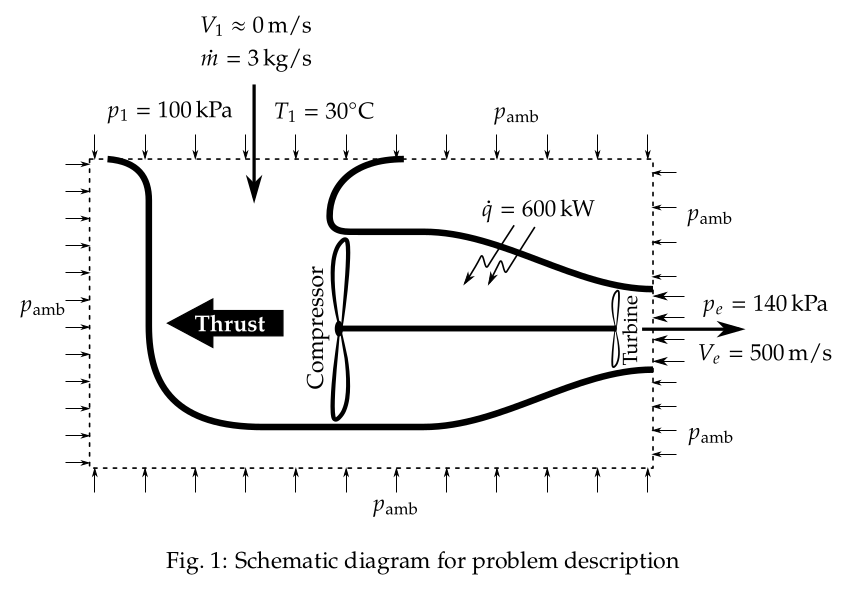
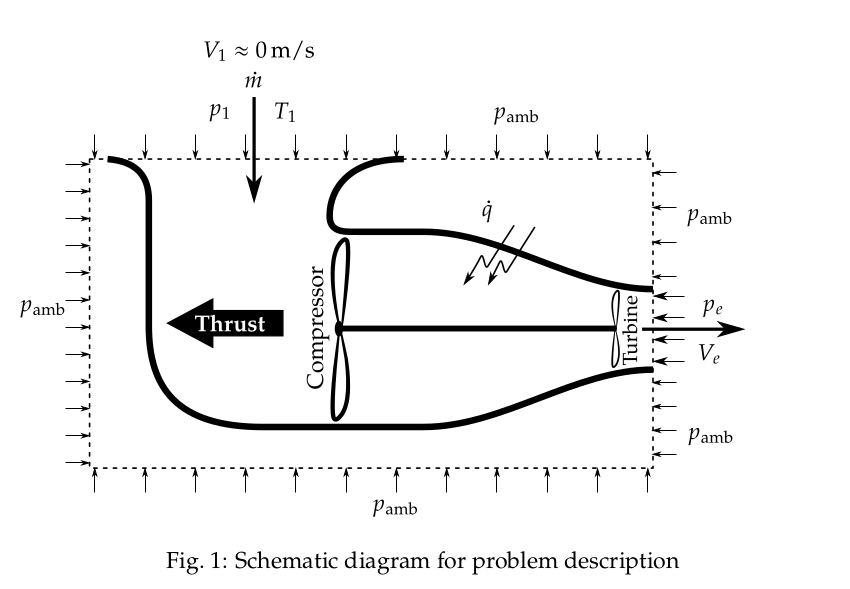
dynamic q1.13

diff --git a/cff/chap01/online/13/index.html b/cff/chap01/online/13/index.html
@@ -16,10 +16,6 @@
     <!-- Bootstrap CSS -->
     <link rel="stylesheet" href="../../../../vendor/bootstrap/css/bootstrap.min.css">
 
-    <!-- Math rendering -->
-    <script src="https://polyfill.io/v3/polyfill.min.js?features=es6"></script>
-    <script id="MathJax-script" async src="https://cdn.jsdelivr.net/npm/mathjax@3/es5/tex-mml-chtml.js"></script>
-
     <!--Font definitions-->
     <link href="https://fonts.googleapis.com/css2?family=Exo&family=Montserrat&family=Libre+Baskerville"
         rel="stylesheet">
@@ -56,11 +52,19 @@
         <h4>Problem 1.13:</h4>
         <div class="font1 text-justify">
             In a proposed jet propulsion system for an automobile, air is drawn in vertically through
-            a large intake in the roof at a rate of 3 kg/s, the velocity through this intake being
-            small. Ambient pressure and temperature are 100 kPa and 30<sup>o</sup>C, respectively.
-            This air is compressed and heated and then discharged horizontally out of a nozzle at
-            the rear of the automobile at a velocity of 500 m/s and a pressure of 140 kPa. If the rate
-            of heat addition to the air stream is 600 kW, find the nozzle discharge area and the thrust
+            a large intake in the roof at a rate of
+            <input type="number" id="m" size="3" value="3">kg/s,
+            the velocity through this intake being small. Ambient pressure and temperature are
+            <input type="number" id="p0" size="3" value="100">kPa
+            and
+            <input type="number" id="T0" size="3" value="30"><sup>o</sup>C,
+            respectively. This air is compressed and heated and then discharged horizontally out of a nozzle at
+            the rear of the automobile at a velocity of
+            <input type="number" id="Ve" size="3" value="500">m/s
+            and a pressure of
+            <input type="number" id="pe" size="3" value="140">kPa.
+            If the rate of heat addition to the air stream is
+            <input type="number" id="q" size="3" value="600">kW, find the nozzle discharge area and the thrust
             developed by the system.
         </div>
         <br>
@@ -68,15 +72,15 @@
         <div class="font3">
             <p>
                 Given: <br>
-                Air is drawn vertically, \( \dot{m}=3\,\text{kg/s} \),
+                Air is drawn vertically, <span id="given-m">\( \dot{m}=3\,\text{kg/s} \)</span>,
                 \( V_{1}\approx0\,\text{m/s} \),
-                \( p_{\text{amb}}=p_{0}=100\,\text{kPa} \),
-                \( T_{\text{amb}}=T_{0}=30^{\circ}\,\text{C}=303\,\text{K} \). <br>
+                <span id="given-p0">\( p_{\text{amb}}=p_{0}=100\,\text{kPa} \)</span>,
+                <span id="given-T0">\( T_{\text{amb}}=T_{0}=30^{\circ}\,\text{C}=303\,\text{K} \)</span>. <br>
 
                 Air is compressed and heated and discharged horizontally,
-                \( V_{e}=500\,\text{m/s} \),
-                \( p_{e}=140\,\text{kPa} \),
-                \( \dot{q}=600\,\text{kW} \).
+                <span id="given-Ve">\( V_{e}=500\,\text{m/s} \)</span>,
+                <span id="given-pe">\( p_{e}=140\,\text{kPa} \)</span>,
+                <span id="given-q">\( \dot{q}=600\,\text{kW} \)</span>.
             </p>
             <p>
                 To calculate: \( A_{e}=? \), \( \text{Thrust}=? \).
@@ -101,13 +105,18 @@
             \dot{m}\,c_{p}T_{0}+\dot{q}=\dot{m}\,c_{p}T_{e}+\dot{m}\,\frac{V_{e}^{2}}{2}+W
             $$
 
-            $$
-            3\times1005\times303+600\times10^{3}=3\times1005\times T_{e}+3\times\frac{500^{2}}{2}+0
-            $$
+            <div id="energy-eqn">
+                $$
+                3\times1005\times303+600\times10^{3}=3\times1005\times T_{e}+3\times\frac{500^{2}}{2}+0
+                $$
+            </div>
 
-            $$
-            T_{e}=\frac{3\times1005\times303+600\times10^{3}-3\times\frac{500^{2}}{2}}{3\times1005}=377.627\,\text{K}\ .
-            $$
+            <div id="Te-out">
+                $$
+                T_{e}=\frac{3\times1005\times303+600\times10^{3}-3\times\frac{500^{2}}{2}}{3\times1005}=377.627\,\text{K}\
+                .
+                $$
+            </div>
 
             <!-- Ad Begin -->
             <br>
@@ -129,19 +138,25 @@
 
             <p>The density at the exit can be calculated using the ideal gas equation,</p>
 
-            $$
-            \rho_{e}=\frac{p_{e}}{R\,T_{e}}=\frac{140\times10^{3}}{287\times377.6}=1.29176\,\text{kg/m}^{3}
-            $$
+            <div id="rho-e-out">
+                $$
+                \rho_{e}=\frac{p_{e}}{R\,T_{e}}=\frac{140\times10^{3}}{287\times377.6}=1.29176\,\text{kg/m}^{3}
+                $$
+            </div>
 
             <p>Applying the conservation of mass equation,</p>
 
-            $$
-            A_{e}=\frac{\dot{m}}{\rho_{e}V_{e}}=\frac{3}{1.29176\times 500}
-            $$
+            <div id="Ae-eqn">
+                $$
+                A_{e}=\frac{\dot{m}}{\rho_{e}V_{e}}=\frac{3}{1.29176\times 500}
+                $$
+            </div>
 
-            $$
-            \boxed{A_{e}=0.0046448\,\text{m}^{2}}\ .
-            $$
+            <div id="Ae-out">
+                $$
+                \boxed{A_{e}=0.0046448\,\text{m}^{2}}\ .
+                $$
+            </div>
 
             <p>Applying the conservation of horizontal momentum,</p>
 
@@ -149,13 +164,17 @@
             \text{Thrust}=\dot{m}_{e}V_{e}+\left(p_{e}-p_{\text{amb}}\right)A_{e}
             $$
 
-            $$
-            \text{Thrust}=3\times500+\left(140\times10^{3}-100\times10^{3}\right)\times0.0046448
-            $$
+            <div id="thrust-eqn">
+                $$
+                \text{Thrust}=3\times500+\left(140\times10^{3}-100\times10^{3}\right)\times0.0046448
+                $$
+            </div>
 
-            $$
-            \boxed{\text{Thrust}=1685.79\,\text{N}}\ .
-            $$
+            <div id="thrust-out">
+                $$
+                \boxed{\text{Thrust}=1685.79\,\text{N}}\ .
+                $$
+            </div>
         </div>
 
         <hr>
@@ -202,6 +221,9 @@
     <!-- jQuery first, then Bootstrap JS -->
     <script src="../../../../vendor/jquery/jquery.slim.min.js"></script>
     <script src="../../../../vendor/bootstrap/js/bootstrap.min.js"></script>
+    <!-- Math -->
+    <script id="MathJax-script" async src="https://cdn.jsdelivr.net/npm/mathjax@4/tex-mml-chtml.js"></script>
+    <script src="script-min.js"></script>
 </body>
 
 </html>

diff --git a/cff/chap01/online/13/script-min.js b/cff/chap01/online/13/script-min.js
@@ -1,0 +1,11 @@
+function c(a,b){a.g&&b==a.i||(a.g&&b==a.i||Number.isNaN(b)||!Number.isFinite(b)||(b=Math.max(b,.1),b=Math.min(b,100),a.i=b,d(a),e(a),f(a),a.P.innerHTML=`\\( \\dot{m}=${a.i}\\,\\text{kg/s} \\)`,g(),h(a),k(a),l(a),m(a)),a.C.value=`${a.i}`)}function n(a,b){a.g&&b==a.o||(a.g&&b==a.o||Number.isNaN(b)||!Number.isFinite(b)||(b=Math.max(b,1),b=Math.min(b,1E3),a.o=b,f(a),a.R.innerHTML=`\\( p_{\\text{amb}}=p_{0}=${a.o}\\,\\text{kPa} \\)`,g(),m(a)),a.D.value=`${a.o}`)}
+function p(a,b){a.g&&b==a.l||(a.g&&b==a.l||Number.isNaN(b)||!Number.isFinite(b)||(b=Math.max(b,-50),b=Math.min(b,1E3),a.l=b,d(a),b=a.l,a.N.innerHTML=`\\( T_{\\text{amb}}=T_{0}=${b}^{\\circ}\\,\\text{C}=${b+273}\\,\\text{K} \\)`,g(),h(a),k(a)),a.A.value=`${a.l}`)}function q(a,b){a.g&&b==a.h||(a.g&&b==a.h||Number.isNaN(b)||!Number.isFinite(b)||(b=Math.max(b,1),b=Math.min(b,5E3),a.h=b,d(a),e(a),f(a),a.O.innerHTML=`\\( V_{e}=${a.h}\\,\\text{m/s} \\)`,g(),h(a),k(a),l(a),m(a)),a.B.value=`${a.h}`)}
+function r(a,b){a.g&&b==a.j||(a.g&&b==a.j||Number.isNaN(b)||!Number.isFinite(b)||(b=Math.max(b,1),b=Math.min(b,1E3),a.j=b,t(a,a.j*1E3/(287*a.u)),f(a),a.S.innerHTML=`\\( p_{e}=${a.j}\\,\\text{kPa} \\)`,g(),u(a),m(a)),a.F.value=`${a.j}`)}function v(a,b){a.g&&b==a.m||(a.g&&b==a.m||Number.isNaN(b)||!Number.isFinite(b)||(b=Math.max(b,1),b=Math.min(b,5E3),a.m=b,d(a),a.T.innerHTML=`\\( \\dot{q}=${a.m}\\,\\text{kW} \\)`,g(),h(a),k(a)),a.G.value=`${a.m}`)}
+function d(a){var b=a.i;var x=a.h;b=(b*1005*(a.l+273)+a.m*1E3-b*x*x/2)/(b*1005);a.g&&b==a.u||a.g&&b==a.u||Number.isNaN(b)||!Number.isFinite(b)||(a.u=b,t(a,a.j*1E3/(287*a.u)),k(a),u(a))}function e(a){var b=a.i/a.v/a.h;a.g&&b==a.H||a.g&&b==a.H||Number.isNaN(b)||!Number.isFinite(b)||(a.H=b,f(a),a.K.innerHTML=`$$ \\boxed{A_{e}=${w(a.H)}\\,\\text{m}^{2}}\\ . $$`,g(),m(a))}
+function f(a){var b=a.i*a.h+(a.j-a.o)*1E3*a.H;a.g&&b==a.I||a.g&&b==a.I||Number.isNaN(b)||!Number.isFinite(b)||(a.I=b,a.W.innerHTML=`$$ \\boxed{\\text{Thrust}=${w(a.I)}\\,\\text{N}}\\ . $$`,g())}function t(a,b){a.g&&b==a.v||a.g&&b==a.v||Number.isNaN(b)||!Number.isFinite(b)||(a.v=b,e(a),u(a),l(a))}function u(a){var b=a.v;a.U.innerHTML=`$$ \\rho_{e}=\\frac{p_{e}}{R\\,T_{e}}=\\frac{${a.j}\\times10^{3}}{${287}\\times${w(a.u)}}=${w(b)}\\,\\text{kg/m}^{3} $$`;g()}
+function h(a){var b=a.i;a.M.innerHTML=`$$ ${b}\\times${1005}\\times${a.l+273+273}+${a.m}\\times10^{3}=${b}\\times${1005}\\times T_{e}+${b}\\times\\frac{${a.h}^{2}}{2}+0 $$`;g()}function k(a){var b=a.i;a.L.innerHTML=`$$ T_{e}=\\frac{${b}\\times${1005}\\times${a.l+273}+${a.m}\\times10^{3}-${b}\\times\\frac{${a.h}^{2}}{2}}{3\\times${1005}}=${w(a.u)}\\,\\text{K}\\ . $$`;g()}function l(a){var b=a.h;a.J.innerHTML=`$$ A_{e}=\\frac{\\dot{m}}{\\rho_{e}V_{e}}=\\frac{${a.i}}{${w(a.v)}\\times ${b}} $$`;g()}
+function m(a){a.V.innerHTML=`$$ \\text{Thrust}=${a.i}\\times${a.h}+\\left(${a.j}\\times10^{3}-${a.o}\\times10^{3}\\right)\\times${w(a.H)} $$`;g()}
+class y{constructor(){this.g=!1;this.C=document.getElementById("m");this.C.addEventListener("change",()=>c(this,parseFloat(this.C.value)));this.C.step="0.1";this.C.min="0.1";this.C.max="100";this.D=document.getElementById("p0");this.D.addEventListener("change",()=>n(this,parseFloat(this.D.value)));this.D.step="0.1";this.D.min="1";this.D.max="1000";this.A=document.getElementById("T0");this.A.addEventListener("change",()=>p(this,parseFloat(this.A.value)));this.A.step="0.1";this.A.min="-50";this.A.max=
+"1000";this.B=document.getElementById("Ve");this.B.addEventListener("change",()=>q(this,parseFloat(this.B.value)));this.B.step="0.1";this.B.min="1";this.B.max="5000";this.F=document.getElementById("pe");this.F.addEventListener("change",()=>r(this,parseFloat(this.F.value)));this.F.step="0.1";this.F.min="1";this.F.max="1000";this.G=document.getElementById("q");this.G.addEventListener("change",()=>v(this,parseFloat(this.G.value)));this.G.step="0.1";this.G.min="1";this.G.max="5000";this.P=document.getElementById("given-m");
+this.R=document.getElementById("given-p0");this.N=document.getElementById("given-T0");this.O=document.getElementById("given-Ve");this.S=document.getElementById("given-pe");this.T=document.getElementById("given-q");this.U=document.getElementById("rho-e-out");this.M=document.getElementById("energy-eqn");this.L=document.getElementById("Te-out");this.J=document.getElementById("Ae-eqn");this.K=document.getElementById("Ae-out");this.V=document.getElementById("thrust-eqn");this.W=document.getElementById("thrust-out");
+this.i=3;this.o=100;this.l=30;this.h=500;this.j=140;this.m=600;this.u=377;this.v=1.3;this.H=.005;this.I=1685.8;c(this,this.i);n(this,this.o);p(this,this.l);q(this,this.h);r(this,this.j);v(this,this.m);this.g=!0}}function g(){typeof MathJax!="undefined"?MathJax.typesetPromise():console.log("MathJax not loaded yet!")}function w(a){a=a.toPrecision(6).toLowerCase();a.includes("e+")?a=a.replace("e+","\\times 10^{")+"}":a.includes("e")&&(a=a.replace("e","\\times 10^{")+"}");return a}new y;
